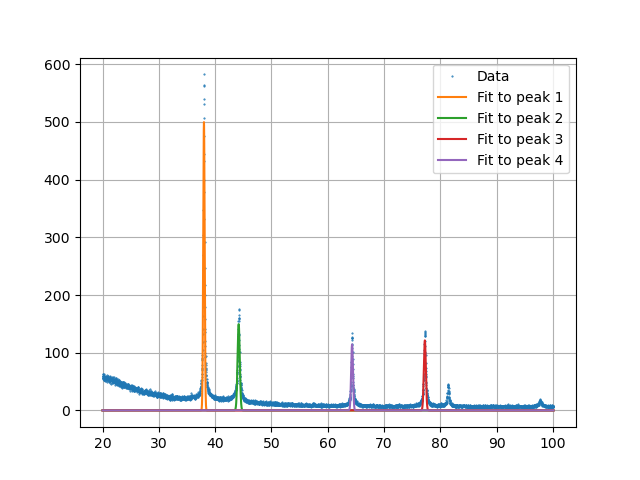
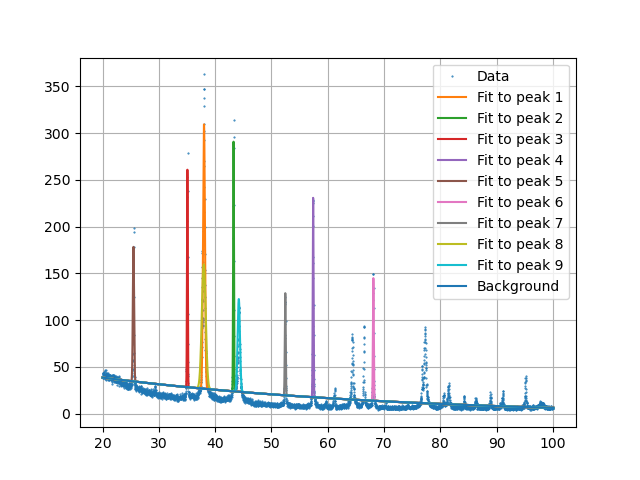
Update

diff --git a/Spectrum_realm/Gaussian.py b/Spectrum_realm/Gaussian.py
@@ -1,4 +1,5 @@
-from Background import Exponential, Linear
+#from Background import Exponential, Linear
+import Background
 import numpy as np
 import matplotlib.pyplot as plt
 import os
@@ -7,6 +8,10 @@ from PhysicsNum import RiemanSum
 import time
 
 class Fitting:
+
+    Backgroundfunc ={"Exponential" : Background.Exponential,
+        "Linear" : Background.Linear}
+
     def __init__(self, Data):
         if not isinstance((Data[0],Data[1]), (np.generic, np.ndarray)):
             if isinstance((Data[0],Data[1]), (list, tuple)):
@@ -49,6 +54,7 @@ class Fitting:
             raise e
         dlist = np.linspace(self.x[0],self.x[-1], len(self.x)*10)
         self.ManualFits.append((dlist, func(np.linspace(self.x[0],self.x[-1], len(self.x)*10))))
+        self.ManualFitsVal.append((Fit[0], Fit[1], Fit[2]))
         self.ManualError.append(covarience)
         self.ManualArea.append(RiemanSum(func, self.x[0], self.x[-1]))
 
@@ -111,34 +117,40 @@ class Fitting:
         self.Background = ylist
 
     def PlotFits(self):
+        plt.plot(self.x, self.y, '.', markersize = 1, label = "Data")
         if len(self.FitsMade) != 0:
-            plt.plot(self.x, self.y, '.', markersize = 1, label = "Data")
             for i in range(len(self.FitsMade)):
                 if not isinstance(self.Background, (np.ndarray, np.generic)):
                     Background = 0
                 else:
                     Background = self.Background
                 plt.plot(self.FitsMade[i][0], self.FitsMade[i][1] + Background, '-', label = f"Fit to peak {i+1}")
-                #print(max(self.FitsMade[i][1]))
-            """
+        if len(self.ManualFits) != 0:
             for i in range(len(self.ManualFits)):
                 if not isinstance(self.Background, (np.ndarray, np.generic)):
                     Background = 0
                 else:
                     Background = self.Background
                 plt.plot(self.ManualFits[i][0], self.ManualFits[i][1] + Background, label = f"Manual fits{i+1}")
-            """
-            plt.legend()
-            plt.grid()
-            plt.savefig("Current.png")
-            plt.clf()
-        else:
-            pass
+        if isinstance(self.Background, (np.generic, np.ndarray)):
+            plt.plot(np.linspace(self.x[0], self.x[-1], len(self.x)*10),
+                self.Background,'-', label = "Background")
+        plt.legend()
+        plt.grid()
+        plt.savefig("Current.png")
+        plt.clf()
 
     def Data(self):
         text = " "
         for i in range(len(self.Error)):
-            text = text + f"Covarience {self.Error[i]} for automated peak {i+1}\n"
-            text = text + f"Area  = {self.Area[i]}for automated peak {i+1}\n"
-            text = text + f"Amplitude = {self.FitsMadeVal[i][0]}\nMu = {self.FitsMadeVal[i][1]}\nError = {self.FitsMadeVal[i][2]}\n\n "
+            text += f"_______Automated peak {i+1}_______\n"
+            text += f"Covarience {self.Error[i]}\n"
+            text += f"Area  = {self.Area[i]}\n"
+            text += f"Amplitude = {self.FitsMadeVal[i][0]}\nMu = {self.FitsMadeVal[i][1]}\nError = {self.FitsMadeVal[i][2]}\n\n "
+        text += "\n\n\n"
+        for i in range(len(self.ManualFits)):
+            text += f"_______Manual peak {i+1}_______\n"
+            text += f"Covarience {self.ManualError[i]} for manual peak {i+1}\n"
+            text += f"Area = {self.ManualArea[i]}\n"
+            text += f"Amplitude = {self.ManualFitsVal[i][0]}\nMu = {self.ManualFitsVal[i][1]}\nError = {self.ManualFitsVal[i][2]}\n\n"
         return text

diff --git a/Spectrum_realm/Editor.py b/Spectrum_realm/Editor.py
@@ -6,8 +6,7 @@ import Parser
 from Gaussian import Fitting
 from PIL import Image, ImageTk
 import os
-
-
+import functools
 
 def Find():
     global Data
@@ -31,6 +30,11 @@ class Handler:
         Filemenu.add_command(label = "Load file", command = Find)
         Filemenu.add_command(label = "Manual fit", command = self.Manual)
         Menubar.add_cascade(label = "File", menu = Filemenu)
+        BackgroundMenu = tk.Menu(Menubar)
+        BackgroundMenu.add_checkbutton(label = "No Background")
+        BackgroundMenu.add_checkbutton(label = "Exponential Background", command = self.Exp)
+        BackgroundMenu.add_checkbutton(label = "Linear background", command = self.Lin)
+        Menubar.add_cascade(label = "Background", menu = BackgroundMenu)
         self.root.config(menu = Menubar)
 
 
@@ -45,6 +49,19 @@ class Handler:
         self.Boundary = ttk.Spinbox(self.root, from_ = 25, to = 100, textvariable = self.Boundaryval,
             command = self.Update).grid(column = 1, row = 7)
         Btn1 = ttk.Button(root, text = "Apply", command = self.Update).grid(column = 1, row = 9)
+
+    def Exp(self):
+        try:
+            self.Data.BackgroundCal(self.Data.Backgroundfunc["Exponential"])
+            self.View()
+        except Exception as e:
+            raise e
+    def Lin(self):
+        try:
+            self.Data.BackgroundCal(self.Data.Backgroundfunc["Linear"])
+            self.View()
+        except Exception as e:
+            raise e
 
 
     def Update(self):

diff --git a/Spectrum_realm/Background.py b/Spectrum_realm/Background.py
@@ -14,7 +14,7 @@ def Linear(x,y):
     lin = lambda x, k,m: k*x+m
     try:
         func, covarience = curve_fit(lin, x,y)
-        return func, covarience, (lambda x: func[0]*x+ func[2])
+        return lambda x: func[0]*x+ func[1]#,func, covarience
     except Exception as e:
         raise e
 
